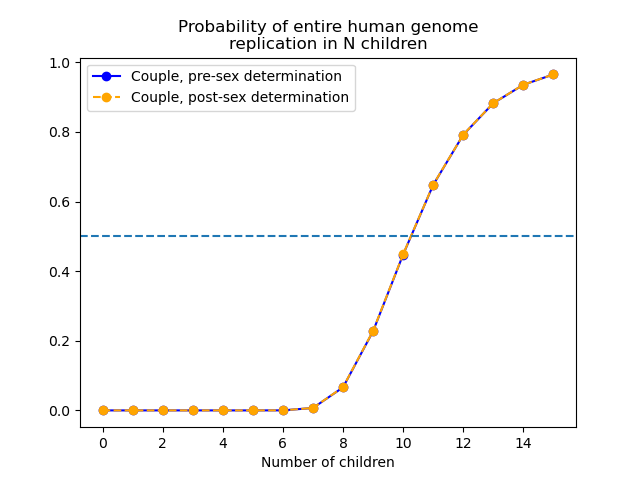
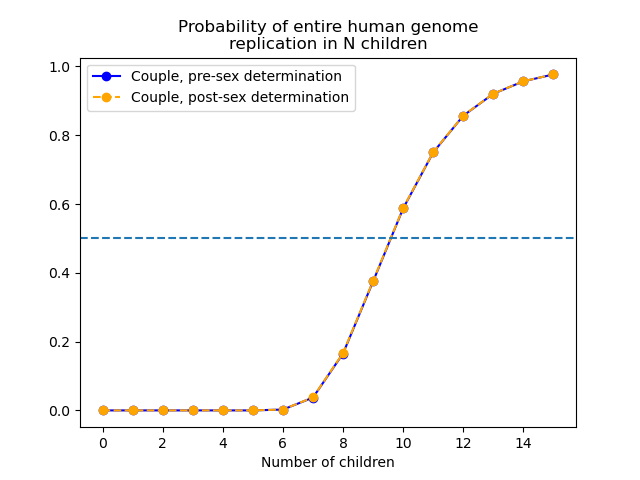
corrected couple graph

diff --git a/_posts/2022-12-19-have-nine-kids.html b/_posts/2022-12-19-have-nine-kids.html
@@ -55,7 +55,7 @@ header-img: /assets/img/Meiosis_Overview_new.svg.png
 
     <p style="text-align: center;"><img src="/assets/img/genome_replication_couples.png"></p>
 
-    <p>In both cases, for a couple to have better-than-even odds at replicating their genomes, they must have 11 shared children.</p>
+    <p>In both cases, for a couple to have better-than-even odds at replicating their genomes, they must have 10 shared children.</p>
 
     <hr>
 
